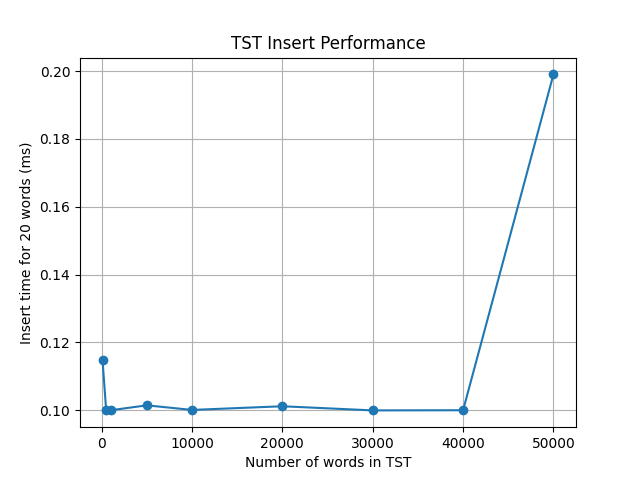
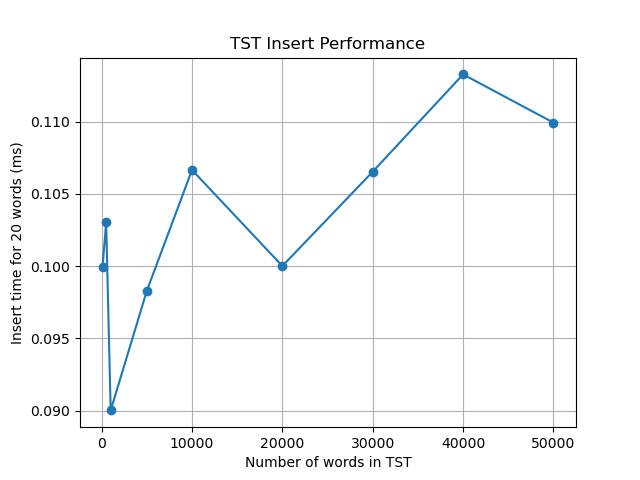
finalise insertion benchmark got stable result with 300 runs

diff --git a/benchmarking.py b/benchmarking.py
@@ -15,31 +15,42 @@ from ternary_search_tree import TernarySearchTree  # Import your custom TST clas
 with open('data/search_trees/corncob_lowercase.txt') as file:
     words = [line.strip() for line in file]
 
+# Check length of words loaded
+len(words)
+
+# The words are alphabetically ordered
+words[:20]
+
 # Shuffle to ensure random distribution (avoids insertion bias)
-random.shuffle(words)
+# random.shuffle(words)
 
 # -------------------------------
 # BENCHMARK PARAMETERS
 # -------------------------------
 sizes = [100, 500, 1_000, 5_000, 10_000, 20_000, 30_000, 40_000, 50_000]  # Sizes of trees to build
-nr_runs = 10  # Number of benchmark runs to average timing results
+nr_runs = 300  # Number of benchmark runs to average timing results
+
+# create a list of random samples for each size
+samples = [
+    random.sample(words, k=size) for size in sizes
+]
 
 # -------------------------------
 # INSERTION BENCHMARK
 # -------------------------------
+# We can now time how long it takes to insert words into a Ternary Search Tree of various sizes.  First we build the TST based on the sample, and then we insert words.
 insert_sample = random.sample(words, k=20)  # Fixed 20-word sample to test insert time
 insert_times = {}
 
 # Benchmark insert performance as tree size increases
-for size in sizes:
-    sample = random.sample(words, k=size)
+for sample in samples:
     tst = TernarySearchTree()
 
     # First, build the tree with the sample size
     for word in sample:
         tst.insert(word)
 
-    insert_times[size] = 0.0
+    insert_times[len(sample)] = 0.0
 
     # Measure the time to insert 20 new words (multiple runs for averaging)
     for _ in range(nr_runs):
@@ -47,10 +58,11 @@ for size in sizes:
         for word in insert_sample:
             tst.insert(word)
         end_time = time.time_ns()
-        insert_times[size] += end_time - start_time
+        insert_times[len(sample)] += end_time - start_time
 
     # Average over number of runs and convert to milliseconds
-    insert_times[size] /= nr_runs * 1_000_000.0
+    insert_times[len(sample)] /= nr_runs * 1_000_000.0
+insert_times
 
 # -------------------------------
 # PLOT INSERTION RESULTS
